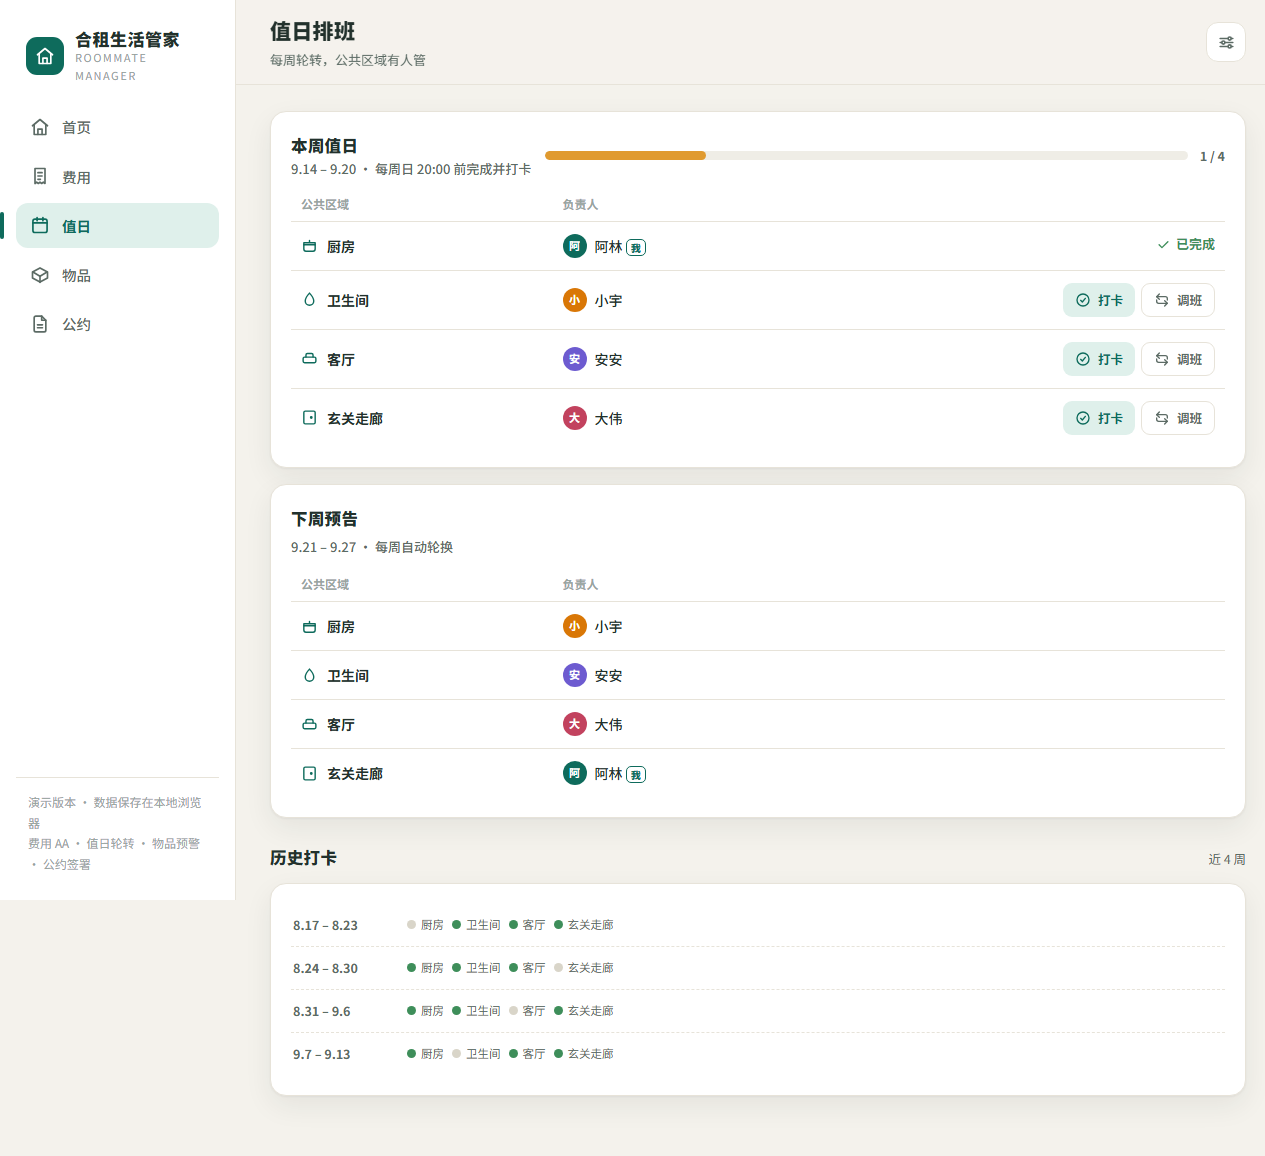
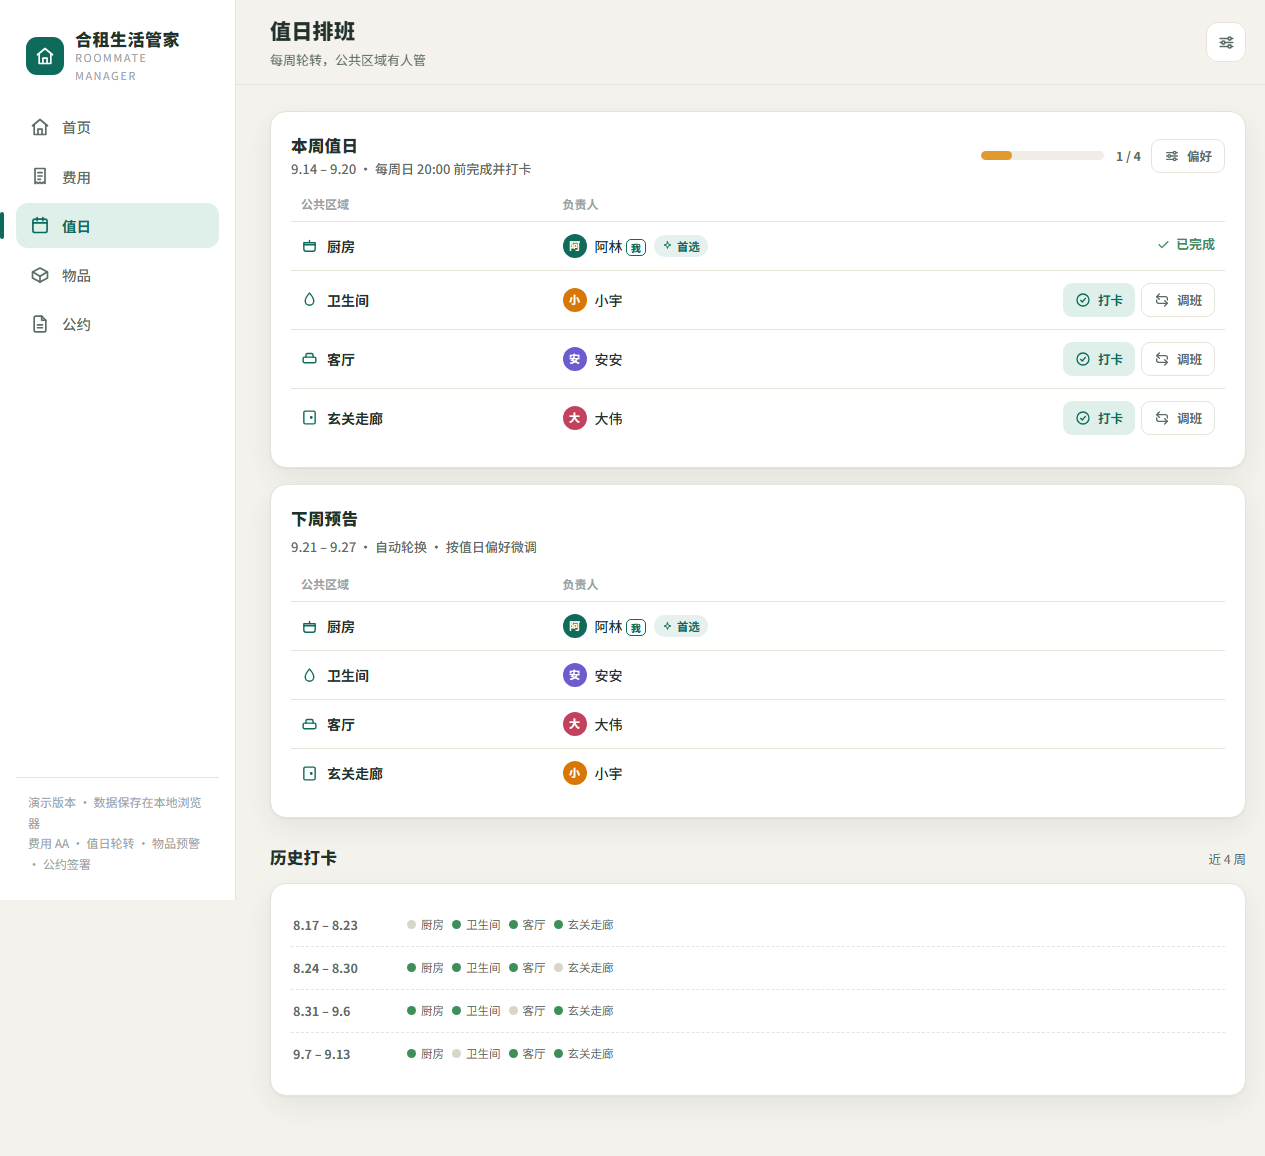
feat: 值日偏好感知排班 - 首选区域优先、不方便区域跳过，带首选徽标与设置弹窗

diff --git a/index.html b/index.html
@@ -182,6 +182,14 @@ textarea.input{resize:vertical;min-height:72px}
 .done-badge{display:inline-flex;align-items:center;gap:5px;color:var(--ok);font-weight:700;font-size:13px}
 .done-badge svg{width:15px;height:15px}
 .swap-badge{display:inline-flex;align-items:center;gap:5px;color:#B9770E;font-weight:700;font-size:12px;background:var(--accent-soft);padding:3px 9px;border-radius:999px}
+.pref-badge{display:inline-flex;align-items:center;gap:4px;color:var(--primary);font-weight:700;font-size:11.5px;background:rgba(14,107,92,.1);padding:2px 8px;border-radius:999px}
+.pref-badge svg{width:11px;height:11px}
+.pref-row{display:flex;align-items:center;gap:12px;padding:10px 2px;border-bottom:1px dashed var(--line);flex-wrap:wrap}
+.pref-row:last-child{border-bottom:none}
+.pref-row .person-cell{min-width:130px}
+.pref-sels{display:flex;gap:10px;flex-wrap:wrap}
+.pref-sels label{font-size:12px;color:var(--ink-2);display:flex;align-items:center;gap:6px}
+.pref-sels select{width:auto;padding:6px 10px;font-size:13px}
 .swap-badge svg{width:12px;height:12px}
 .swap-note{display:flex;align-items:center;gap:8px;padding:8px 2px;font-size:12.5px;color:var(--ink-2);border-bottom:1px dashed var(--line)}
 .swap-note:last-child{border-bottom:none}
@@ -349,7 +357,28 @@ const AV_COLORS=['#0E6B5C','#D97706','#6D5BD0','#C2425E','#0E7490','#4D7C0F','#B
 const KEY='hezu_guanjia_v1';
 let S=null;
 function rm(id){return S.roommates.find(x=>x.id===id)||S.roommates[0];}
-function dutyOf(week,rms){rms=rms||S.roommates;const m=week.match(/^(\d+)-W(\d+)$/);const n=rms.length||1;const base=(+m[1]*53+(+m[2]))%n;const out={};AREAS.forEach((a,idx)=>{out[a.id]=rms[(base+idx)%n].id;});return out;}
+function dutyOf(week,rms){
+  rms=rms||S.roommates;const m=week.match(/^(\d+)-W(\d+)$/);const n=rms.length||1;
+  const base=(+m[1]*53+(+m[2]))%n;
+  const prefs=(S&&S.prefs)||{};
+  const assign={};const used={};
+  for(let idx=0;idx<AREAS.length;idx++){
+    const a=AREAS[idx];if(assign[a.id])continue;
+    const cand=rms.find(r=>!used[r.id]&&((prefs[r.id]||{}).preferred===a.id)&&((prefs[r.id]||{}).unavailable!==a.id));
+    if(cand){assign[a.id]=cand.id;used[cand.id]=true;}
+  }
+  for(let idx=0;idx<AREAS.length;idx++){
+    const a=AREAS[idx];if(assign[a.id])continue;
+    for(let k=0;k<n;k++){
+      const r=rms[(base+idx+k)%n];
+      if(used[r.id])continue;
+      if((prefs[r.id]||{}).unavailable===a.id)continue;
+      assign[a.id]=r.id;used[r.id]=true;break;
+    }
+  }
+  AREAS.forEach(a=>{if(!assign[a.id]){const free=rms.find(r=>!used[r.id]);if(free){assign[a.id]=free.id;used[free.id]=true;}}});
+  return assign;
+}
 function defaultState(){
   const now=new Date();
   const mk=(name,c)=>({id:uid(),name,color:c});
@@ -365,16 +394,16 @@ function defaultState(){
   const ruleSigns={};rules.forEach((r,i)=>{const signed=i%3===2?[me.id,r3.id]:i%4===0?[me.id,r2.id,r3.id,r4.id]:i%5===0?[me.id,r2.id]:[me.id,r2.id,r3.id];ruleSigns[r.id]=signed;});
   const tasks={};for(let k=1;k<=4;k++){const key=weekKeyOf(addDays(new Date(),-7*k));const duty=dutyOf(key,rms);AREAS.forEach((a,idx)=>{if(idx!==k%4){tasks[key+'_'+a.id]=daysAgo(7*k-(k%3));}});}
   const wk=weekKeyOf(new Date());tasks[wk+'_kitchen']=daysAgo(1);
-  return {version:1,flat:{name:'阳光花园 3 栋 502',createdAt:daysAgo(60)},meId:me.id,roommates:rms,expenses:exps.filter(Boolean),items,rules,ruleSigns,tasks,swaps:{},lastDataReset:null};
+  return {version:1,flat:{name:'阳光花园 3 栋 502',createdAt:daysAgo(60)},meId:me.id,roommates:rms,expenses:exps.filter(Boolean),items,rules,ruleSigns,tasks,prefs:{[me.id]:{preferred:'kitchen',unavailable:null}},swaps:{},lastDataReset:null};
 }
 function buildFreshState(flatName,names){
   const rms=names.map((n,i)=>({id:uid(),name:n,color:AV_COLORS[i%AV_COLORS.length]}));
   const fr=(t,c,ct)=>({id:uid(),title:t,cat:c,content:ct,createdAt:dstr(new Date())});
   const rules=[fr('晚上 11 点后保持安静','作息噪音','23:00 后客厅不喧闹，音乐、游戏、视频尽量戴耳机或调低音量。'),fr('公共区域每周大扫除','清洁卫生','每周日按值日表完成清洁，完成后在「值日」模块打卡。'),fr('访客提前说一声','访客','带朋友回家在群里说一声；留宿不超过 3 晚，需征得室友同意。')];
   const ruleSigns={};rules.forEach(r=>{ruleSigns[r.id]=[];});
-  return {version:1,flat:{name:flatName,createdAt:dstr(new Date())},meId:rms[0].id,roommates:rms,expenses:[],items:[],rules,ruleSigns,tasks:{},swaps:{},onboarded:true};
+  return {version:1,flat:{name:flatName,createdAt:dstr(new Date())},meId:rms[0].id,roommates:rms,expenses:[],items:[],rules,ruleSigns,tasks:{},prefs:{},swaps:{},onboarded:true};
 }
-function load(){try{const raw=localStorage.getItem(KEY);if(raw){S=JSON.parse(raw);if(S&&Array.isArray(S.roommates)&&S.roommates.length&&Array.isArray(S.expenses)){if(!S.swaps)S.swaps={};return;}}}catch(e){}S=defaultState();}
+function load(){try{const raw=localStorage.getItem(KEY);if(raw){S=JSON.parse(raw);if(S&&Array.isArray(S.roommates)&&S.roommates.length&&Array.isArray(S.expenses)){if(!S.swaps)S.swaps={};if(!S.prefs)S.prefs={};return;}}}catch(e){}S=defaultState();}
 function save(){try{localStorage.setItem(KEY,JSON.stringify(S));}catch(e){toast('保存失败：浏览器存储不可用');}}
 function resetDemo(){S=defaultState();save();renderAll();toast('已重置为演示数据');}
 function clearAll(){try{localStorage.removeItem(KEY);}catch(e){}location.reload();}
@@ -440,7 +469,7 @@ function viewHome(){
     +'<button class="quick" onclick="openItemModal()"><div>'+ICONS.package+'</div><b>登记物品</b><span>缺货自动提醒</span></button>'
     +'<button class="quick" onclick="openRuleModal()"><div>'+ICONS.doc+'</div><b>新增公约</b><span>室友一起签署</span></button></div>';
   const lowHtml=lows.length?'<div class="list">'+lows.slice(0,3).map(it=>'<div class="row"><div class="stock-icon warn" style="width:38px;height:38px">'+ICONS.alert+'</div><div class="row-main"><div class="row-title">'+esc(it.name)+'</div><div class="row-sub">剩 '+it.qty+' '+it.unit+' · 低于提醒线 '+it.threshold+' '+it.unit+'</div></div><button class="btn soft sm" onclick="restock(\''+it.id+'\')">'+ICONS.plus+'补货</button></div>').join('')+'</div>':'<div class="empty" style="padding:14px">库存充足，暂无待采购物品。</div>';
-  const dutyHtml=AREAS.map(a=>{const rid=swapFor(wk,a.id);const r=rm(rid);const done=!!S.tasks[wk+'_'+a.id];const sw=S.swaps[wk+'_'+a.id];return '<div class="row"><div class="duty-area">'+a.icon+'<span>'+a.name+'</span></div><div class="row-main"><div class="row-sub" style="margin-top:0">'+avatarHtml(r)+' '+nameHtml(r)+(sw?' <span class="swap-badge">'+ICONS.swap+'调</span>':'')+'</div></div><div>'+(done?'<span class="done-badge">'+ICONS.check+'已完成</span>':'<button class="btn soft sm" onclick="toggleDuty(\''+a.id+'\')">'+ICONS.checkc+'打卡完成</button>')+'</div></div>';}).join('');
+  const dutyHtml=AREAS.map(a=>{const rid=swapFor(wk,a.id);const r=rm(rid);const done=!!S.tasks[wk+'_'+a.id];const sw=S.swaps[wk+'_'+a.id];const pf=(S.prefs[rid]||{}).preferred===a.id;return '<div class="row"><div class="duty-area">'+a.icon+'<span>'+a.name+'</span></div><div class="row-main"><div class="row-sub" style="margin-top:0">'+avatarHtml(r)+' '+nameHtml(r)+(pf?' <span class="pref-badge">'+ICONS.spark+'首选</span>':'')+(sw?' <span class="swap-badge">'+ICONS.swap+'调</span>':'')+'</div></div><div>'+(done?'<span class="done-badge">'+ICONS.check+'已完成</span>':'<button class="btn soft sm" onclick="toggleDuty(\''+a.id+'\')">'+ICONS.checkc+'打卡完成</button>')+'</div></div>';}).join('');
   const signHtml='<div style="display:flex;align-items:center;gap:12px"><div class="progress" style="height:10px"><i style="width:'+signPct+'%"></i></div><span style="font-size:12.5px;font-weight:700;color:var(--ink-2);white-space:nowrap">'+signPct+'%</span></div>';
   return '<div class="hero"><div class="hero-greet">'+greeting()+'，'+esc(me.name)+'</div><div class="hero-title">'+esc(S.flat.name)+'</div><div class="hero-date">'+fmtDate(dstr(new Date()))+' · 和室友一起把生活过明白</div>'+heroChips+'</div>'+buildTodoCard()+stats+quicks
     +'<div class="section"><div class="section-head"><div class="section-title">'+ICONS.alert+' 待采购提醒</div><a class="section-link" href="#/items">去物品页 →</a></div><div class="card">'+lowHtml+'</div></div>'
@@ -521,21 +550,32 @@ function doSwap(aid,toId){
   renderAll();
 }
 function cancelSwap(aid){const wk=weekKeyOf(new Date());delete S.swaps[wk+'_'+aid];save();renderAll();toast('已恢复原排班');}
+function openPrefModal(){
+  const opts=(cur)=>'<option value="">无</option>'+AREAS.map(a=>'<option value="'+a.id+'"'+(cur===a.id?' selected':'')+'>'+a.name+'</option>').join('');
+  const rows=S.roommates.map(r=>{const p=S.prefs[r.id]||{};return '<div class="pref-row"><div class="person-cell">'+avatarHtml(r)+'<b>'+esc(r.name)+(r.id===S.meId?' <span class="me-tag">我</span>':'')+'</b></div><div class="pref-sels"><label>首选 <select class="input" name="pref_'+r.id+'">'+opts(p.preferred)+'</select></label><label>不方便 <select class="input" name="unav_'+r.id+'">'+opts(p.unavailable)+'</select></label></div></div>';}).join('');
+  openModal('<div class="modal-head"><div class="modal-title">值日偏好</div><button type="button" class="modal-x" onclick="closeModal()">'+ICONS_X+'</button></div>'
+    +'<div style="font-size:13px;color:var(--ink-2);line-height:1.9;margin-bottom:12px">每位室友可标一个<b style="color:var(--ink)">首选区域</b>（优先排给你）和一个<b style="color:var(--ink)">不方便区域</b>（自动跳过）。排班会在公平轮换的基础上尽量满足，不设置就照旧轮流。</div>'
+    +'<form onsubmit="submitPrefs(event)">'+rows+'<div class="modal-foot"><button type="button" class="btn ghost" onclick="closeModal()">取消</button><button type="submit" class="btn primary">保存并重新排班</button></div></form>');
+}
+function submitPrefs(ev){ev.preventDefault();const f=ev.target;const p={};
+  S.roommates.forEach(r=>{p[r.id]={preferred:f['pref_'+r.id]?f['pref_'+r.id].value||null:null,unavailable:f['unav_'+r.id]?f['unav_'+r.id].value||null:null};});
+  S.prefs=p;save();closeModal();toast('排班已按偏好更新');renderAll();
+}
 function viewCleaning(){
   const wk=weekKeyOf(new Date());const next=weekKeyOf(addDays(new Date(),7));
   const duty=dutyOf(wk);const dutyNext=dutyOf(next);
   const doneCount=AREAS.filter(a=>S.tasks[wk+'_'+a.id]).length;
-  const rows=AREAS.map(a=>{const rid=swapFor(wk,a.id);const r=rm(rid);const done=!!S.tasks[wk+'_'+a.id];const sw=S.swaps[wk+'_'+a.id];
+  const rows=AREAS.map(a=>{const rid=swapFor(wk,a.id);const r=rm(rid);const done=!!S.tasks[wk+'_'+a.id];const sw=S.swaps[wk+'_'+a.id];const pf=(S.prefs[rid]||{}).preferred===a.id;
     const ops=done?'<span class="done-badge">'+ICONS.check+'已完成</span>':'<div style="display:flex;gap:6px;justify-content:flex-end"><button class="btn soft sm" onclick="toggleDuty(\''+a.id+'\')">'+ICONS.checkc+'打卡</button><button class="btn ghost sm" onclick="swapDuty(\''+a.id+'\')">'+ICONS.swap+'调班</button></div>';
-    return '<tr><td><div class="duty-area">'+a.icon+'<span>'+a.name+'</span></div></td><td><div class="person-cell">'+avatarHtml(r)+nameHtml(r)+(sw?' <span class="swap-badge">'+ICONS.swap+'已调班</span>':'')+'</div></td><td style="text-align:right;white-space:nowrap">'+ops+'</td></tr>';}).join('');
-  const nextRows=AREAS.map(a=>{const r=rm(dutyNext[a.id]);return '<tr><td><div class="duty-area">'+a.icon+'<span>'+a.name+'</span></div></td><td><div class="person-cell">'+avatarHtml(r)+nameHtml(r)+'</div></td></tr>';}).join('');
+    return '<tr><td><div class="duty-area">'+a.icon+'<span>'+a.name+'</span></div></td><td><div class="person-cell">'+avatarHtml(r)+nameHtml(r)+(pf?' <span class="pref-badge">'+ICONS.spark+'首选</span>':'')+(sw?' <span class="swap-badge">'+ICONS.swap+'已调班</span>':'')+'</div></td><td style="text-align:right;white-space:nowrap">'+ops+'</td></tr>';}).join('');
+  const nextRows=AREAS.map(a=>{const r=rm(dutyNext[a.id]);const pf=(S.prefs[r.id]||{}).preferred===a.id;return '<tr><td><div class="duty-area">'+a.icon+'<span>'+a.name+'</span></div></td><td><div class="person-cell">'+avatarHtml(r)+nameHtml(r)+(pf?' <span class="pref-badge">'+ICONS.spark+'首选</span>':'')+'</div></td></tr>';}).join('');
   let hist='';for(let k=4;k>=1;k--){const key=weekKeyOf(addDays(new Date(),-7*k));const dutyK=dutyOf(key);const dots=AREAS.map(a=>{const done=!!S.tasks[key+'_'+a.id];return '<span class="hist-dot"><i class="'+(done?'done':'no')+'"></i>'+a.name+'</span>';}).join('');hist+='<div class="hist-week"><div class="wk">'+fmtWeek(key)+'</div><div class="hist-dots">'+dots+'</div></div>';}
   const swaps=Object.keys(S.swaps).filter(k=>k.startsWith(wk+'_')).map(k=>{const a=AREAS.find(x=>x.id===k.slice(wk.length+1));const s=S.swaps[k];return '<div class="swap-note"><b>'+a.name+'</b><span class="swap-arrow">'+ICONS.arrow+'</span>'+esc(rm(s.from).name)+' → <b>'+esc(rm(s.to).name)+'</b><span style="margin-left:auto">'+esc(rm(s.by).name)+' '+fmtDate(s.at).replace(' · 周'+['日','一','二','三','四','五','六'][new Date(s.at+'T00:00:00').getDay()],'')+'</span><button class="section-link" style="font-size:11.5px" onclick="cancelSwap(\''+a.id+'\')">撤销</button></div>';}).join('');
   const swapHtml=swaps?'<div class="section"><div class="section-head"><div class="section-title">本周调班记录</div></div><div class="card" style="padding:12px 16px">'+swaps+'</div></div>':'';
   const prog='<div style="display:flex;align-items:center;gap:12px;flex:1;min-width:160px"><div class="progress'+(doneCount===AREAS.length?'':' amber')+'"><i style="width:'+(doneCount/AREAS.length*100)+'%"></i></div><span style="font-size:12.5px;font-weight:700;color:var(--ink-2);white-space:nowrap">'+doneCount+' / '+AREAS.length+'</span></div>';
-  return '<div class="card"><div class="duty-head"><div><div class="section-title">本周值日</div><div class="duty-week">'+fmtWeek(wk)+' · 每周日 20:00 前完成并打卡</div></div>'+prog+'</div><table class="duty-table"><thead><tr><th style="width:28%">公共区域</th><th>负责人</th><th style="width:36%"></th></tr></thead><tbody>'+rows+'</tbody></table></div>'
+  return '<div class="card"><div class="duty-head"><div><div class="section-title">本周值日</div><div class="duty-week">'+fmtWeek(wk)+' · 每周日 20:00 前完成并打卡</div></div><div style="display:flex;align-items:center;gap:10px;flex-wrap:wrap">'+prog+'<button class="btn ghost sm" onclick="openPrefModal()">'+ICONS.gear+'偏好</button></div></div><table class="duty-table"><thead><tr><th style="width:28%">公共区域</th><th>负责人</th><th style="width:36%"></th></tr></thead><tbody>'+rows+'</tbody></table></div>'
     +swapHtml
-    +'<div class="card" style="margin-top:16px"><div class="section-title" style="margin-bottom:6px">下周预告</div><div class="duty-week" style="margin-bottom:8px">'+fmtWeek(next)+' · 每周自动轮换</div><table class="duty-table"><thead><tr><th style="width:28%">公共区域</th><th>负责人</th></tr></thead><tbody>'+nextRows+'</tbody></table></div>'
+    +'<div class="card" style="margin-top:16px"><div class="section-title" style="margin-bottom:6px">下周预告</div><div class="duty-week" style="margin-bottom:8px">'+fmtWeek(next)+' · 自动轮换 · 按值日偏好微调</div><table class="duty-table"><thead><tr><th style="width:28%">公共区域</th><th>负责人</th></tr></thead><tbody>'+nextRows+'</tbody></table></div>'
     +'<div class="section"><div class="section-head"><div class="section-title">历史打卡</div><span class="row-sub">近 4 周</span></div><div class="card">'+hist+'</div></div>';
 }
 function toggleDuty(aid){const wk=weekKeyOf(new Date());const k=wk+'_'+aid;if(S.tasks[k]){delete S.tasks[k];toast('已取消本次打卡');}else{S.tasks[k]=dstr(new Date());toast('打卡完成，辛苦啦');}save();renderAll();}
@@ -638,7 +678,7 @@ function submitRule(ev,id){ev.preventDefault();const f=ev.target;const title=f.t
   const rec={id:uid(),title,cat:f.cat.value,content,createdAt:dstr(new Date())};S.rules.unshift(rec);S.ruleSigns[rec.id]=[];save();closeModal();toast('公约已发布，快@室友来签');renderAll();}
 function openRoommateModal(){openModal('<div class="modal-head"><div class="modal-title">添加室友</div><button type="button" class="modal-x" onclick="closeModal()">'+ICONS_X+'</button></div><form onsubmit="submitRoommate(event)">'+field('室友昵称', '<input class="input" name="name" required maxlength="10" placeholder="例如：小林">')+'<div class="modal-foot"><button type="button" class="btn ghost" onclick="closeModal()">取消</button><button type="submit" class="btn primary">加入合租</button></div></form>');}
 function submitRoommate(ev){ev.preventDefault();const name=ev.target.name.value.trim();if(!name){toast('请填写昵称');return;}if(S.roommates.some(r=>r.name===name)){toast('已有同名室友');return;}S.roommates.push({id:uid(),name,color:AV_COLORS[S.roommates.length%AV_COLORS.length]});save();closeModal();toast('欢迎 '+name+' 入住');renderAll();}
-function removeRoommate(id){if(id===S.meId){toast('不能移除自己');return;}if(!confirm('确定移除 '+rm(id).name+' 吗？相关账目与签署记录会自动整理。'))return;S.roommates=S.roommates.filter(r=>r.id!==id);S.expenses.forEach(e=>{e.participantIds=e.participantIds.filter(pid=>pid!==id);if(e.payerId===id)e.payerId=S.meId;});Object.keys(S.ruleSigns).forEach(k=>{S.ruleSigns[k]=S.ruleSigns[k].filter(x=>x!==id);});save();renderAll();toast('已移除室友');}
+function removeRoommate(id){if(id===S.meId){toast('不能移除自己');return;}if(!confirm('确定移除 '+rm(id).name+' 吗？相关账目与签署记录会自动整理。'))return;S.roommates=S.roommates.filter(r=>r.id!==id);S.expenses.forEach(e=>{e.participantIds=e.participantIds.filter(pid=>pid!==id);if(e.payerId===id)e.payerId=S.meId;});Object.keys(S.ruleSigns).forEach(k=>{S.ruleSigns[k]=S.ruleSigns[k].filter(x=>x!==id);});if(S.prefs)delete S.prefs[id];save();renderAll();toast('已移除室友');}
 function openSettings(){
   openModal('<div class="modal-head"><div class="modal-title">设置</div><button type="button" class="modal-x" onclick="closeModal()">'+ICONS_X+'</button></div><form onsubmit="submitSettings(event)">'+field('公寓名称', '<input class="input" name="flatname" required maxlength="30" value="'+esc(S.flat.name)+'">')+'<div class="modal-foot"><button type="button" class="btn ghost" onclick="closeModal()">取消</button><button type="submit" class="btn primary">保存</button></div></form><div class="section" style="margin-top:6px"><div class="section-title" style="margin-bottom:10px">数据</div><div style="display:flex;gap:10px;flex-wrap:wrap"><button type="button" class="btn ghost" onclick="resetDemo()">看看演示数据</button><button type="button" class="btn ghost" onclick="exportData()">'+ICONS.download+'导出备份</button><button type="button" class="btn ghost" onclick="document.getElementById(\'import-file\').click()">'+ICONS.upload+'导入备份</button><button type="button" class="btn danger" onclick="clearAll()">清空并重新引导</button></div><input type="file" id="import-file" accept="application/json,.json" style="display:none" onchange="importData(event)"><div class="row-sub" style="margin-top:14px">数据保存在当前浏览器 localStorage，仅本机可见。「看看演示数据」可快速体验完整流程；「导出备份」可下载 JSON 文件随身携带，换设备或清浏览器后「导入备份」一键恢复。</div></div>');
 }

diff --git a/README.md b/README.md
@@ -28,6 +28,7 @@
 
 ### 3. 值日 · 排班打卡
 - 公共区域按周自动轮换（厨房 / 卫生间 / 客厅 / 玄关走廊），每周日 20:00 前打卡
+- **值日偏好**：每位室友可标「首选区域」（优先排给你）与「不方便区域」（自动跳过），排班在公平轮换基础上尽量满足个人意愿，本周与下周排班实时生效、带「首选」徽标
 - **请假调班**：本周有事一键把区域换给指定室友，换班记录留痕、随时可撤销，首页待办同步更新
 - 近 4 周历史打卡一目了然
 
@@ -52,18 +53,19 @@
 |---|---|
 | ![首页](assets/shot-home.png) | ![费用](assets/shot-expense.png) |
 
-| 值日 · 排班与调班 | 物品 · 采购清单与登记 |
+| 值日 · 排班打卡与偏好设置 | 值日偏好 · 首选 / 不方便区域 |
 |---|---|
-| ![值日](assets/shot-cleaning.png) | ![物品](assets/shot-items.png) |
+| ![值日](assets/shot-cleaning.png) | ![偏好](assets/shot-prefs.png) |
 
-| 公约 · 签署与编辑 |
-|---|
-| ![公约](assets/shot-rules.png) |
+| 物品 · 采购清单与登记 | 公约 · 签署与编辑 |
+|---|---|
+| ![物品](assets/shot-items.png) | ![公约](assets/shot-rules.png) |
 
 ## 技术实现
 
 - **单文件应用**：一个 `index.html` 内含全部 HTML / CSS / JavaScript，零依赖、零构建，拿到就能用
 - **原生技术栈**：原生 JS + Hash 路由 + `localStorage` 持久化（无框架、无后端）
+- **排班算法**：按周轮换 + 偏好感知（首选优先、不方便跳过、兜底填空），无偏好时与纯轮换输出完全一致（已回归验证）
 - **响应式**：桌面 / 手机 / 平板自适应；移动端可「添加到主屏幕」（PWA manifest + 图标 + 主题色）
 - **视觉**：深 teal 主色 + 暖金点缀，内联 SVG 图标体系（不用 emoji），组件化重渲染
 
